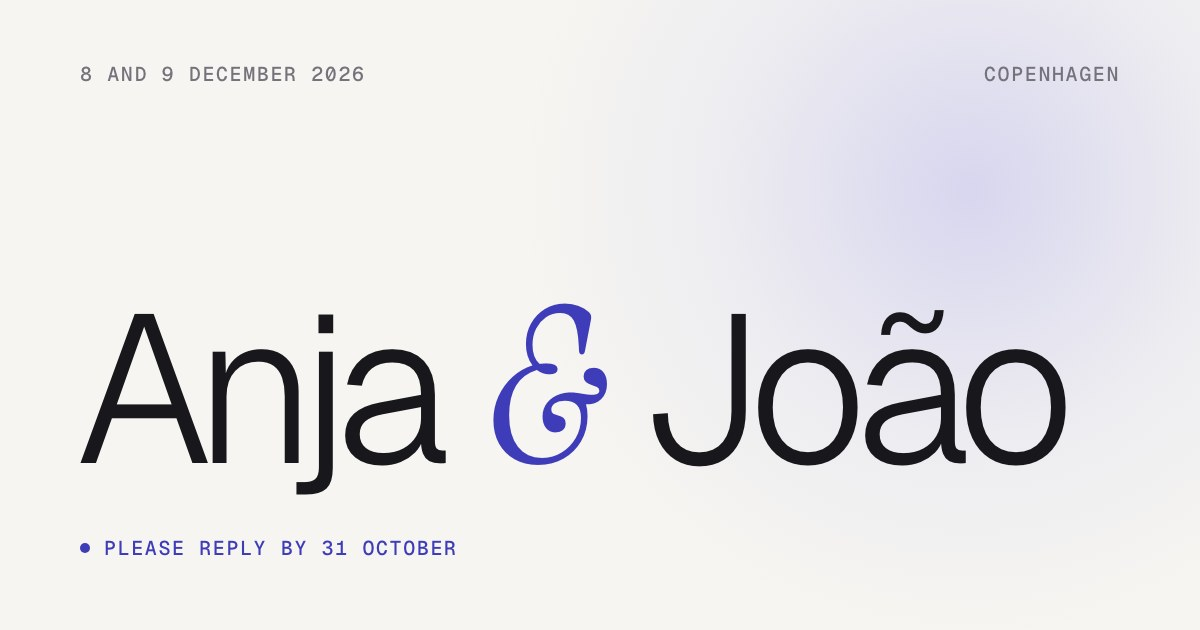
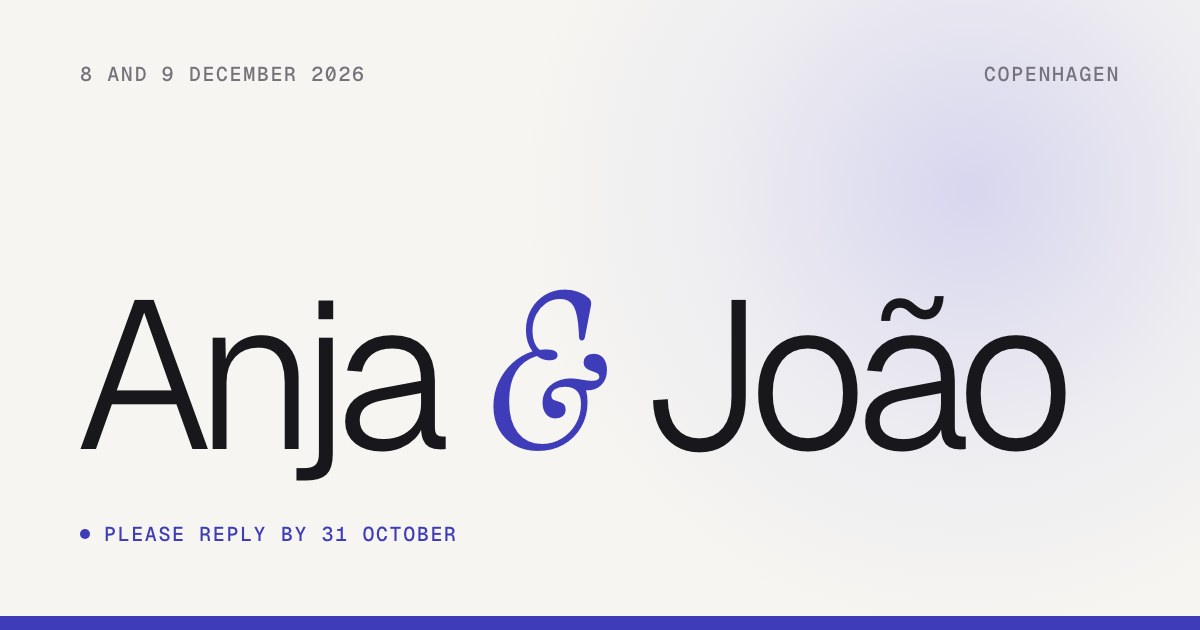
Wedding page: indigo band on the link preview image

diff --git a/wedding/index.html b/wedding/index.html
@@ -11,7 +11,7 @@
 		<meta property="og:url" content="https://joaomira.com/wedding/" />
 		<meta property="og:title" content="Anja & João" />
 		<meta property="og:description" content="8 and 9 December 2026, Copenhagen. Please reply by 31 October." />
-		<meta property="og:image" content="https://joaomira.com/wedding/img/share.jpg?v=2" />
+		<meta property="og:image" content="https://joaomira.com/wedding/img/share.jpg?v=3" />
 		<meta property="og:image:width" content="1200" />
 		<meta property="og:image:height" content="630" />
 		<meta name="twitter:card" content="summary_large_image" />
